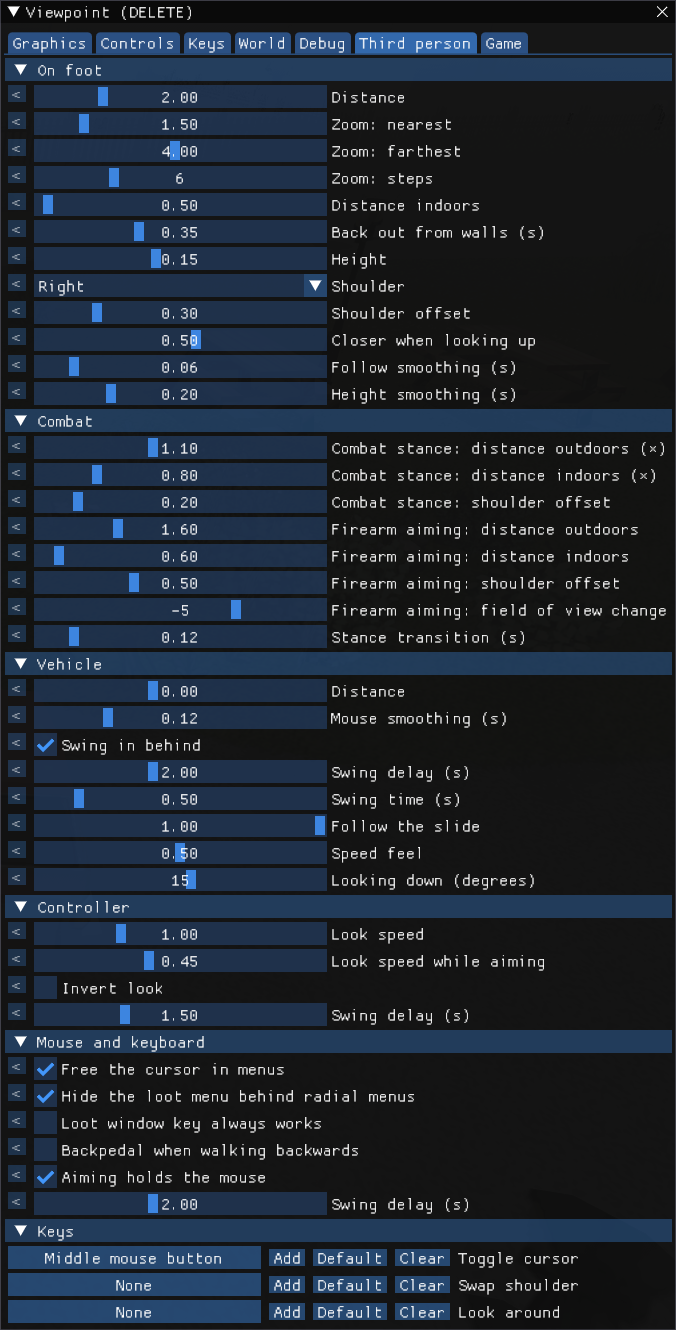
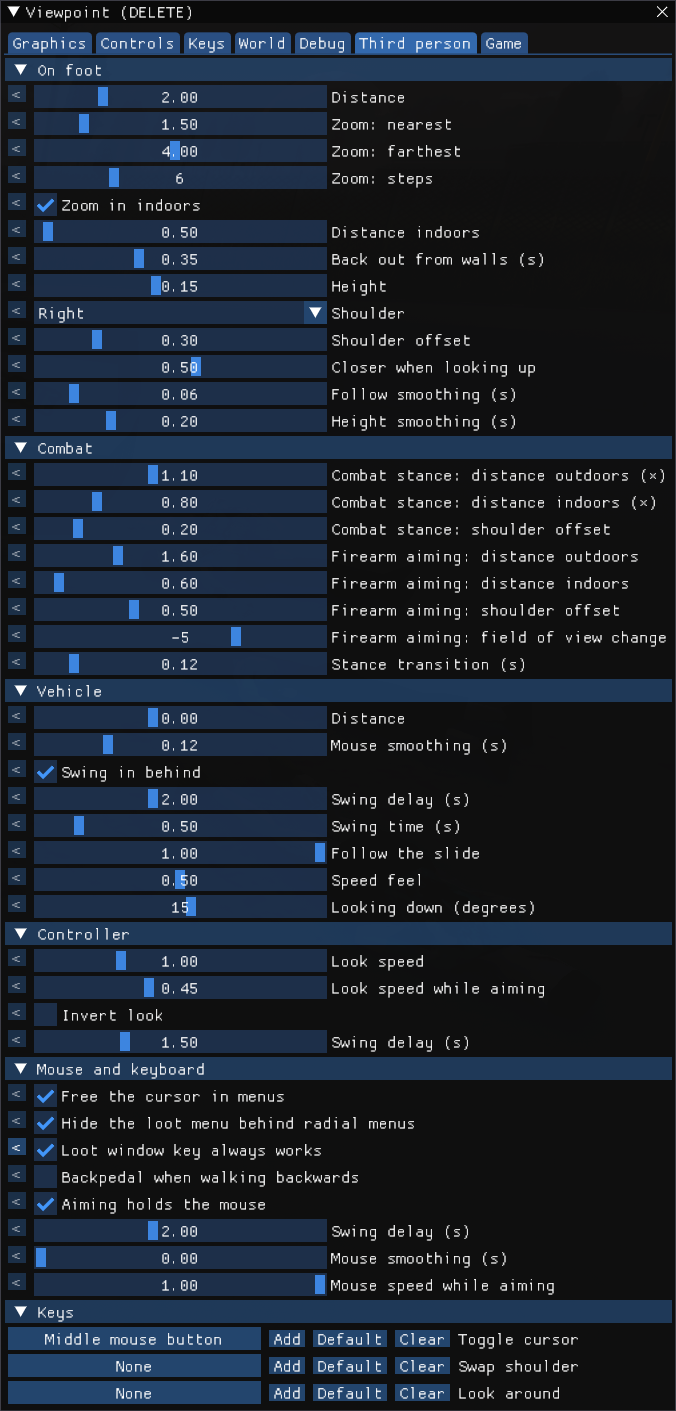
Keep the camera's distance when jumping, add options to turn off the indoor zoom and to smooth and slow the mouse while aiming, release 0.3.9

Changed region(s): [[0.0, 0.0, 0.9941, 1.0], [0.932, 0.3391, 0.963, 0.3699], [0.7766, 0.1541, 0.8077, 0.185]]

diff --git a/src/pzmod/viewpointthirdperson/ThirdPersonRig.java b/src/pzmod/viewpointthirdperson/ThirdPersonRig.java
@@ -25,6 +25,8 @@ public class ThirdPersonRig {
     static final String SECTION = TAB + "/On foot";
     static final String COMBAT = TAB + "/Combat";
     static final float LEVEL = 2.4494896f;
+    // Viewpoint's ThirdPerson.lift on foot.
+    static final float FOOT_LIFT = 0.2f;
     static final float SNAP_DISTANCE = 2.0f;
     static final float SIDE_TIME = 0.15f;
     static final float MIN_DISTANCE = 0.2f;
@@ -47,6 +49,7 @@ public class ThirdPersonRig {
     public static final LiveSettings.Number ZOOM_NEAR = LiveSettings.number("thirdPersonCamera.zoomNearest", "Zoom: nearest", SECTION, 0.3f, 8.0f, 0.05f, 1.5f);
     public static final LiveSettings.Number ZOOM_FAR = LiveSettings.number("thirdPersonCamera.zoomFarthest", "Zoom: farthest", SECTION, 0.3f, 8.0f, 0.05f, 4.0f);
     public static final LiveSettings.Number ZOOM_STEPS = LiveSettings.number("thirdPersonCamera.zoomSteps", "Zoom: steps", SECTION, 1.0f, 20.0f, 1.0f, 6.0f);
+    public static final LiveSettings.Toggle INDOOR_ZOOM = LiveSettings.toggle("thirdPersonCamera.indoorZoom", "Zoom in indoors", SECTION, true);
     public static final LiveSettings.Number INDOOR_DISTANCE = LiveSettings.number("thirdPersonCamera.indoorDistance", "Distance indoors", SECTION, 0.3f, 8.0f, 0.05f, 0.5f);
     public static final LiveSettings.Number RECOVER = LiveSettings.number("thirdPersonCamera.collisionRecover", "Back out from walls (s)", SECTION, 0.0f, 1.0f, 0.01f, 0.35f);
     public static final LiveSettings.Number HEIGHT = LiveSettings.number("thirdPersonCamera.height", "Height", SECTION, -0.8f, 1.5f, 0.01f, 0.15f);
@@ -104,7 +107,7 @@ public class ThirdPersonRig {
     static float held = -1.0f;
     static float heldFull;
     static boolean seated;
-    static volatile float seatLift = Float.NaN;
+    static volatile float gridLevelLift = Float.NaN;
     static Method setSide;
 
     public static final class Snap {
@@ -121,6 +124,7 @@ public class ThirdPersonRig {
 
     static {
         DISTANCE.describe("Outdoors. The mouse wheel zooms.");
+        INDOOR_ZOOM.describe("Off = same distance as outdoors.");
         INDOOR_DISTANCE.describe("Entering a building zooms in to this.");
         ZOOM_STEPS.describe("Wheel turns from nearest to farthest.");
         SIDE.describe("The Swap shoulder key switches it.");
@@ -223,10 +227,10 @@ public class ThirdPersonRig {
                 // Viewpoint puts the wall grid's two levels where the eye is, which climbs a level
                 // getting in and out of a tall vehicle; ours start at the vehicle's floor.
                 int level = (int) Math.floor(vehicle.jniTransform.origin.y / LEVEL + 0.05f);
-                seatLift = (level + 0.5f - frame.camZ) * LEVEL - frame.eyeY;
+                gridLevelLift = (level + 0.5f - frame.camZ) * LEVEL - frame.eyeY;
             } else {
                 VehicleCamera.reset();
-                seatLift = Float.NaN;
+                gridLevelLift = Float.NaN;
                 snap.on = false;
                 held = -1.0f;
             }
@@ -240,7 +244,6 @@ public class ThirdPersonRig {
         }
         if (seated) held = -1.0f;
         seated = false;
-        seatLift = Float.NaN;
         VehicleCamera.reset();
         LookAround.update(chr, dt);
 
@@ -266,7 +269,7 @@ public class ThirdPersonRig {
             }
         }
         indoor += ((inside ? 1.0f : 0.0f) - indoor) * ease(dt, inside ? INDOOR_IN_TIME : INDOOR_OUT_TIME);
-        float base = lerp(DISTANCE.get(), indoorDistance(), smooth(indoor));
+        float base = INDOOR_ZOOM.get() ? lerp(DISTANCE.get(), indoorDistance(), smooth(indoor)) : DISTANCE.get();
         shownDistance = shownDistance < 0.0f ? base : shownDistance + (base - shownDistance) * ease(dt, ZOOM_TIME);
         float roomy = shownDistance;
         side += ((SIDE.get() == 0 ? 1.0f : -1.0f) - side) * ease(dt, SIDE_TIME);
@@ -326,6 +329,12 @@ public class ThirdPersonRig {
         snap.seated = false;
         snap.swingOn = false;
         snap.on = true;
+        // Viewpoint's grid starts at the eye's level; a pivot or camera below it, as in a jump, is
+        // walled off.
+        int eyeLevel = (int) Math.floor(frame.camZ + (frame.eyeY + FOOT_LIFT) / LEVEL);
+        float lowest = pivotH - Math.max(0.0f, (float) Math.sin(Look.pitch)) * distance - CLEAR;
+        int level = Math.max(eyeLevel - 1, Math.min(eyeLevel, (int) Math.floor(lowest / LEVEL)));
+        gridLevelLift = level < eyeLevel ? (level + 0.5f - frame.camZ) * LEVEL - frame.eyeY : Float.NaN;
     }
 
     static Field drawnFrame;
@@ -395,9 +404,9 @@ public class ThirdPersonRig {
                 + Math.max(SHOULDER.get(), Math.max(MELEE_SHOULDER.get(), FIREARM_SHOULDER.get())) + 1.0f;
     }
 
-    public static float gridLift(boolean seated, float lift) {
-        float l = seatLift;
-        return ok && seated && !Float.isNaN(l) ? l : lift;
+    public static float gridLift(float lift) {
+        float l = gridLevelLift;
+        return ok && !Float.isNaN(l) ? l : lift;
     }
 
     public static float fov(float fov) {
@@ -600,7 +609,7 @@ public class ThirdPersonRig {
     }
 
     private static boolean zoomedIndoors() {
-        return inside && indoorZoom >= 0.0f;
+        return INDOOR_ZOOM.get() && inside && indoorZoom >= 0.0f;
     }
 
     private static float zoomed() {

diff --git a/src/pzmod/viewpointthirdperson/MouseKeyboard.java b/src/pzmod/viewpointthirdperson/MouseKeyboard.java
@@ -16,6 +16,8 @@ public class MouseKeyboard {
     public static final LiveSettings.Toggle BACKPEDAL = LiveSettings.toggle("thirdPersonCamera.backpedal", "Backpedal when walking backwards", SECTION, false);
     public static final LiveSettings.Toggle AIM_HOLDS_MOUSE = LiveSettings.toggle("thirdPersonCamera.aimHoldsMouse", "Aiming holds the mouse", SECTION, true);
     public static final LiveSettings.Number FOLLOW_DELAY = LiveSettings.number("thirdPersonCamera.mouseFollowDelay", "Swing delay (s)", SECTION, 0.0f, 5.0f, 0.1f, 2.0f);
+    public static final LiveSettings.Number SMOOTHING = LiveSettings.number("thirdPersonCamera.mouseSmoothing", "Mouse smoothing (s)", SECTION, 0.0f, 0.5f, 0.01f, 0.0f);
+    public static final LiveSettings.Number AIM_SPEED = LiveSettings.number("thirdPersonCamera.mouseAimSpeed", "Mouse speed while aiming", SECTION, 0.1f, 1.0f, 0.05f, 1.0f);
 
     static final LiveSettings.Choice MODEL;
 
@@ -24,6 +26,8 @@ public class MouseKeyboard {
         INVENTORY_KEY.describe("Without a loot menu, it opens your inventory.");
         AIM_HOLDS_MOUSE.describe("With the cursor free, holding the right mouse button turns the view with the mouse until you let go.");
         FOLLOW_DELAY.describe("After the mouse rests. 0 = never.");
+        SMOOTHING.describe("0 = instant.");
+        AIM_SPEED.describe("1 = unchanged.");
         BACKPEDAL.describe("Your character keeps facing the view and turns back to it when you stop.");
         LiveSettings.Choice model = null;
         try {

diff --git a/src/pzmod/viewpointthirdperson/VehicleCamera.java b/src/pzmod/viewpointthirdperson/VehicleCamera.java
@@ -4,7 +4,9 @@ import java.util.IdentityHashMap;
 import java.util.Map;
 import org.joml.Matrix3f;
 import org.joml.Vector3f;
+import viewpoint.core.View;
 import viewpoint.input.Look;
+import viewpoint.input.ThirdPerson;
 import viewpoint.platform.LiveSettings;
 import zombie.characters.IsoPlayer;
 import zombie.core.Core;
@@ -329,10 +331,27 @@ public class VehicleCamera {
         long now = System.nanoTime();
         float dt = readAt == 0L ? 0.0f : Math.min(0.1f, (now - readAt) / 1.0e9f);
         readAt = now;
-        float time = MOUSE.get();
-        if (!active || time <= 0.0f) {
+        float time = 0.0f;
+        boolean slowed = false;
+        if (active) {
+            time = MOUSE.get();
+        } else if (ThirdPerson.active && View.enabled) {
+            time = MouseKeyboard.SMOOTHING.get();
+            IsoPlayer p = IsoPlayer.players[0];
+            if (p != null && p.isAiming()) {
+                float speed = MouseKeyboard.AIM_SPEED.get();
+                dy *= speed;
+                dp *= speed;
+                slowed = speed < 1.0f;
+            }
+        }
+        if (time <= 0.0f) {
             pendingYaw = 0.0f;
             pendingPitch = 0.0f;
+            if (slowed) {
+                Look.yaw = wrap(readYaw + dy);
+                Look.pitch = readPitch + dp;
+            }
             return;
         }
         pendingYaw += dy;

diff --git a/src/pzmod/viewpointthirdperson/Patch_ThirdPerson.java b/src/pzmod/viewpointthirdperson/Patch_ThirdPerson.java
@@ -16,12 +16,12 @@ public class Patch_ThirdPerson {
         }
     }
 
-    // Seated, sets which level the wall grid starts at.
+    // Sets which level the wall grid starts at.
     @Patch(className = "viewpoint.input.ThirdPerson", methodName = "lift")
     public static class Patch_lift {
         @Patch.OnExit
         public static void exit(@Patch.Argument(0) CameraSquares cs, @Patch.Return(readOnly = false) float ret) {
-            ret = ThirdPersonRig.gridLift(cs.seated, ret);
+            ret = ThirdPersonRig.gridLift(ret);
         }
     }
 
